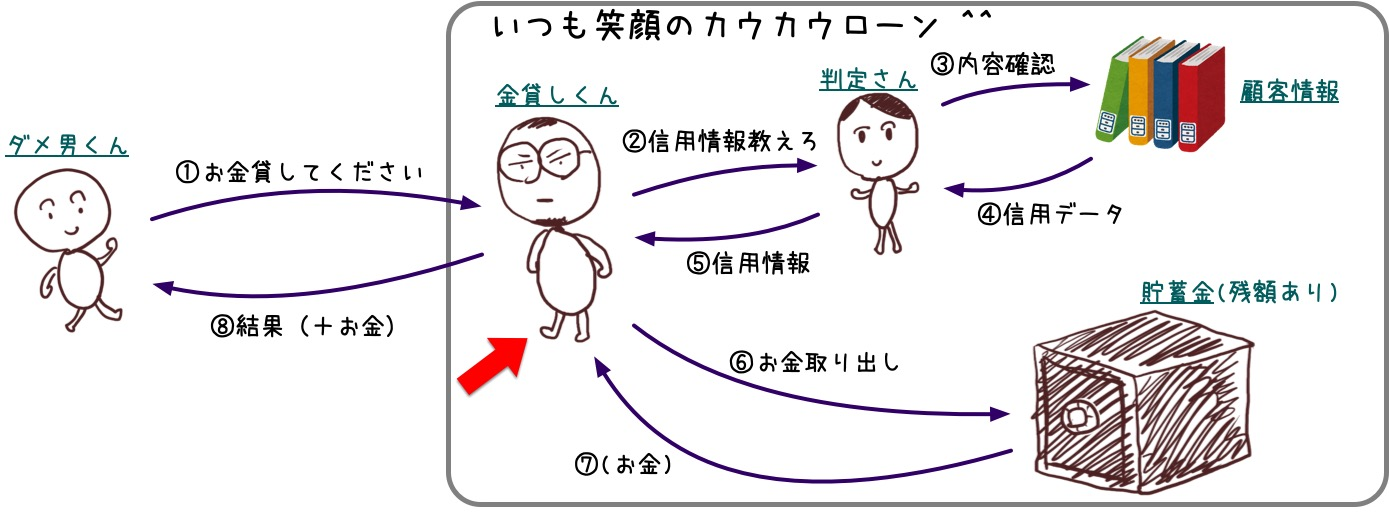
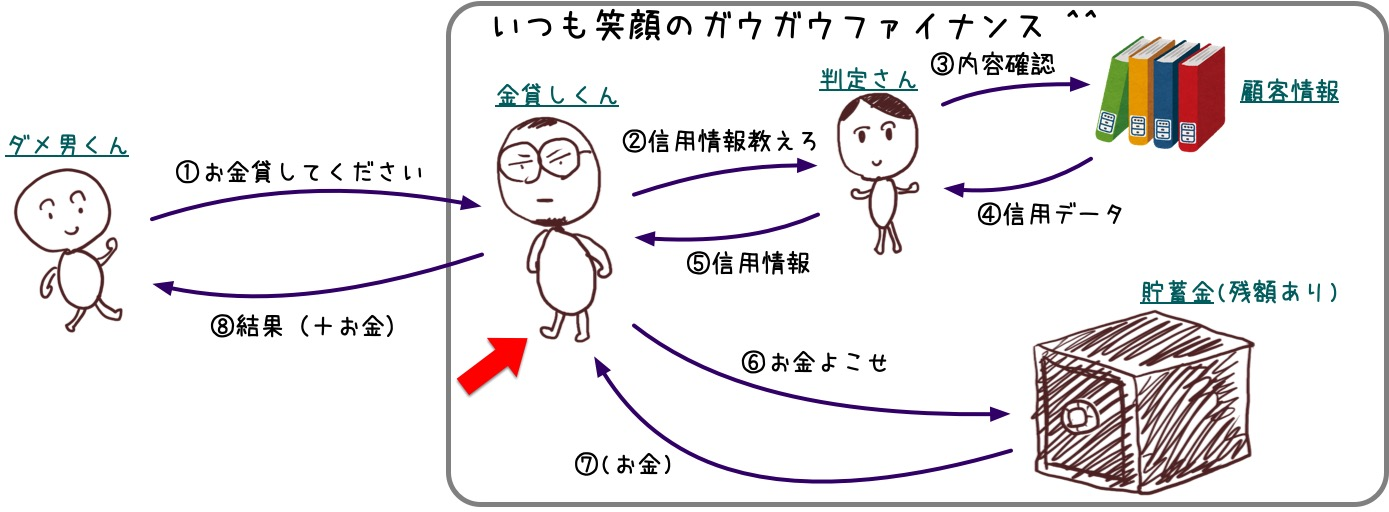
Update doc & image

Changed region(s): [[0.5263, 0.6875, 0.6501, 0.75], [0.5572, 0.0, 0.743, 0.0625], [0.4953, 0.0312, 0.5263, 0.0625]]

diff --git a/01-basics/13-encapsulation_infohiding_pkg.md b/01-basics/13-encapsulation_infohiding_pkg.md
@@ -132,8 +132,9 @@ def User:  # カプセル化で「人の属性」をUserでグルーピング
 
 ## クイズ
 以下のシステムを分析し、問題に答えてください
-1. 図中の金貸しくん(赤矢印)は何を知っていれば良いでしょうか？
+1. 金貸しくん(赤矢印)は何を知っていれば良いでしょうか？
 2. 金貸しくんはおダメ男くんに何を公開し、何を隠したらいいでしょうか？
+2. 判定さんは何を公開し、何を隠したらいいでしょうか？
 3. ダメ男くんは金貸しくんにどんな情報を伝えれば良いでしょうか？
 
-![center h:300](./assets/encapsulation.jpg)
+![center h:250](./assets/encapsulation.jpg)
